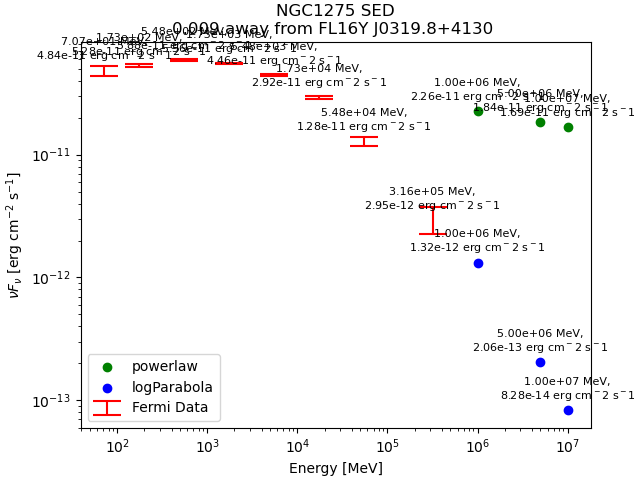
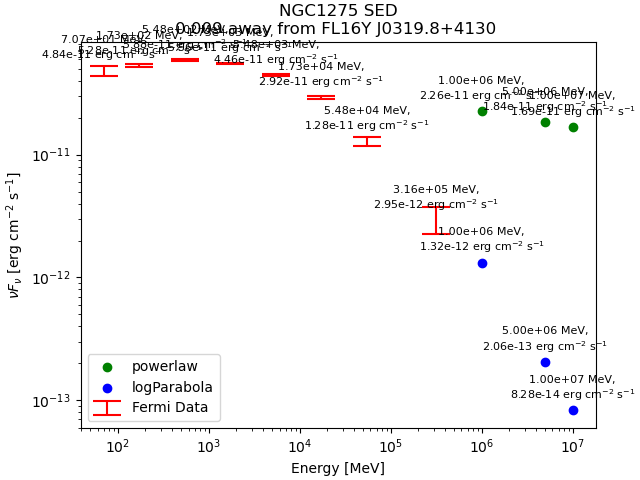
please

diff --git a/fermi/sourcesfermi.py b/fermi/sourcesfermi.py
@@ -156,21 +156,21 @@ for i, s in enumerate(sourceName):
             capsize=10,capthick=1.5,elinewidth=1.5,
             label="Fermi Data")
     for x, y in zip(e_mids, nufnu[i]):
-        plt.annotate(f"{x:.2e} MeV,\n{y:.2e} erg cm$^{-2}$ s$^{-1}$",
+        plt.annotate(f"{x:.2e} MeV,\n{y:.2e} erg cm$^{{-2}}$ s$^{{-1}}$",
                  xy=(x, y), xytext=(0, 8),
                  textcoords='offset points',
                  fontsize=8, ha='center')
 
     plt.scatter(sy_en,nuFnu_PL,label="powerlaw",color='green')
     for x, y in zip(sy_en, nuFnu_PL):
-        plt.annotate(f"{x:.2e} MeV,\n{y:.2e} erg cm$^{-2}$ s$^{-1}$",
+        plt.annotate(f"{x:.2e} MeV,\n{y:.2e} erg cm$^{{-2}}$ s$^{{-1}}$",
                  xy=(x, y), xytext=(0, 8),
                  textcoords='offset points',
                  fontsize=8, ha='center')
 
     plt.scatter(sy_en,nuFnu_LP,label="logParabola",color='blue')
     for x, y in zip(sy_en, nuFnu_LP):
-        plt.annotate(f"{x:.2e} MeV,\n{y:.2e} erg cm$^{-2}$ s$^{-1}$",
+        plt.annotate(f"{x:.2e} MeV,\n{y:.2e} erg cm$^{{-2}}$ s$^{{-1}}$",
                  xy=(x, y), xytext=(0, 8),
                  textcoords='offset points',
                  fontsize=8, ha='center')
